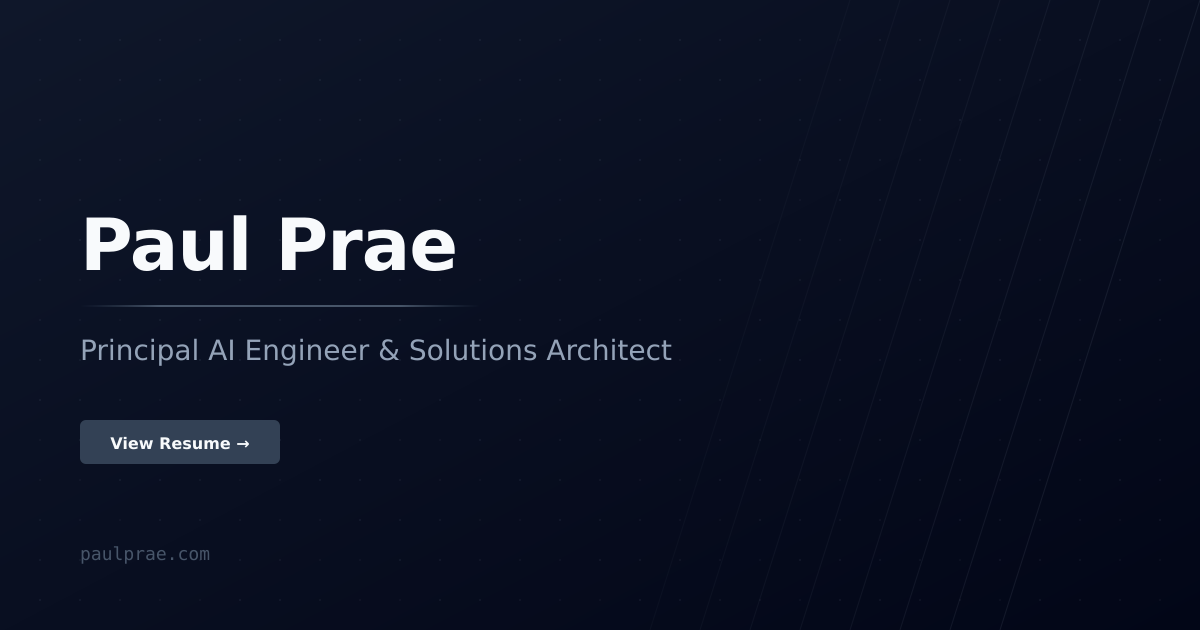
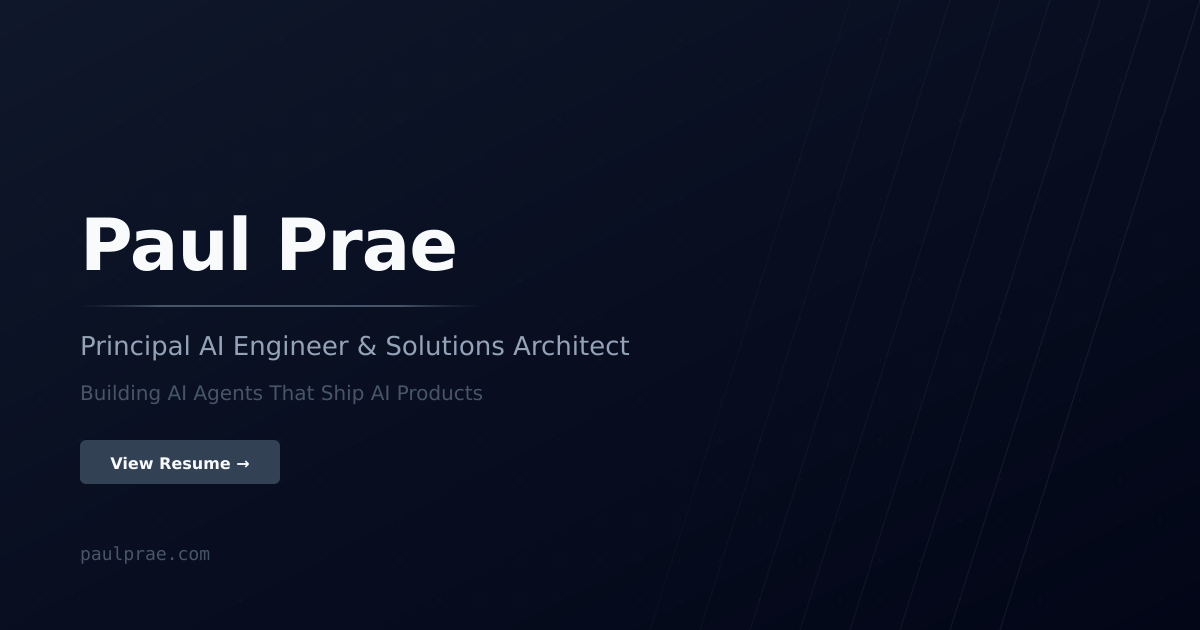
Upgrade meta description and OG image with AI agents value prop
- Description: lead with "Building AI agents that ship AI products" hook
  instead of generic tenure statement — hits hottest keyword in market
- Add industry specificity: healthcare, life science, and insurance
- OG image: add tagline line between title and CTA button
- Aligns website messaging with LinkedIn headline positioning
- All meta tags (OG, Twitter, JSON-LD) updated consistently

Changed region(s): [[0.0617, 0.6635, 0.2467, 0.7841], [0.0617, 0.5127, 0.555, 0.573], [0.0617, 0.6032, 0.4008, 0.6333]]

diff --git a/app/layout.tsx b/app/layout.tsx
@@ -6,7 +6,7 @@ export const metadata: Metadata = {
   metadataBase: new URL("https://paulprae.com"),
   title: "Paul Prae — Principal AI Engineer & Solutions Architect",
   description:
-    "AI and data engineering leader with 15 years at AWS, Microsoft, and Fortune 500 companies. Healthcare AI, ML platforms, and engineering leadership.",
+    "Building AI agents that ship AI products. 15+ years delivering enterprise AI at AWS, Microsoft, and Fortune 500 across healthcare, life science, and insurance.",
   icons: {
     icon: [
       { url: "/favicon.ico", sizes: "32x32" },
@@ -17,7 +17,7 @@ export const metadata: Metadata = {
   openGraph: {
     title: "Paul Prae — Principal AI Engineer & Solutions Architect",
     description:
-      "AI and data engineering leader with 15 years at AWS, Microsoft, and Fortune 500 companies. Healthcare AI, ML platforms, and engineering leadership.",
+      "Building AI agents that ship AI products. 15+ years delivering enterprise AI at AWS, Microsoft, and Fortune 500 across healthcare, life science, and insurance.",
     type: "website",
     url: "https://paulprae.com",
     siteName: "Paul Prae",
@@ -35,7 +35,7 @@ export const metadata: Metadata = {
     card: "summary_large_image",
     title: "Paul Prae — Principal AI Engineer & Solutions Architect",
     description:
-      "AI and data engineering leader with 15 years at AWS, Microsoft, and Fortune 500 companies. Healthcare AI, ML platforms, and engineering leadership.",
+      "Building AI agents that ship AI products. 15+ years delivering enterprise AI at AWS, Microsoft, and Fortune 500 across healthcare, life science, and insurance.",
     images: ["/og-image.png"],
   },
   alternates: {

diff --git a/scripts/generate-brand-assets.ts b/scripts/generate-brand-assets.ts
@@ -83,11 +83,14 @@ function ogImageSvg(): string {
   <text x="80" y="270" font-family="system-ui, -apple-system, 'Segoe UI', Roboto, sans-serif" font-size="72" font-weight="700" fill="${COLORS.text}" letter-spacing="-1">Paul Prae</text>
 
   <!-- Title -->
-  <text x="80" y="360" font-family="system-ui, -apple-system, 'Segoe UI', Roboto, sans-serif" font-size="28" font-weight="400" fill="${COLORS.textMuted}">Principal AI Engineer &amp; Solutions Architect</text>
+  <text x="80" y="355" font-family="system-ui, -apple-system, 'Segoe UI', Roboto, sans-serif" font-size="26" font-weight="400" fill="${COLORS.textMuted}">Principal AI Engineer &amp; Solutions Architect</text>
+
+  <!-- Tagline -->
+  <text x="80" y="400" font-family="system-ui, -apple-system, 'Segoe UI', Roboto, sans-serif" font-size="20" font-weight="500" fill="${COLORS.border}">Building AI Agents That Ship AI Products</text>
 
   <!-- Call-to-action -->
-  <rect x="80" y="420" width="200" height="44" rx="6" fill="${COLORS.accent}"/>
-  <text x="180" y="449" text-anchor="middle" font-family="system-ui, -apple-system, 'Segoe UI', Roboto, sans-serif" font-size="16" font-weight="600" fill="${COLORS.text}">View Resume →</text>
+  <rect x="80" y="440" width="200" height="44" rx="6" fill="${COLORS.accent}"/>
+  <text x="180" y="469" text-anchor="middle" font-family="system-ui, -apple-system, 'Segoe UI', Roboto, sans-serif" font-size="16" font-weight="600" fill="${COLORS.text}">View Resume →</text>
 
   <!-- URL -->
   <text x="80" y="560" font-family="ui-monospace, 'Cascadia Code', 'Fira Code', monospace" font-size="18" fill="${COLORS.border}">paulprae.com</text>
